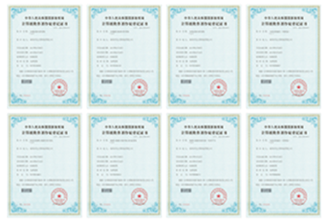
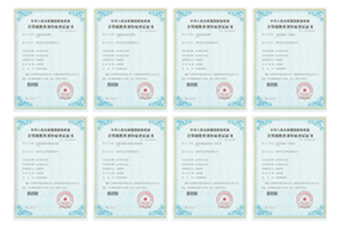
1

diff --git a/css/aboutUs.css b/css/aboutUs.css
@@ -59,10 +59,10 @@
 }
 .honorlist>li{
   /* flex: 1; */
-  margin-right: 10px;
+  margin-right: 5px;
 }
 .honorlist .imgdv{
-  padding: 3px;
+  padding: 0px;
   -webkit-box-shadow: 0px 2px 6px 0px #EDEDED;
   -moz-box-shadow: 0px 2px 6px 0px #EDEDED;
   box-shadow: 0px 2px 6px 0px #EDEDED;
